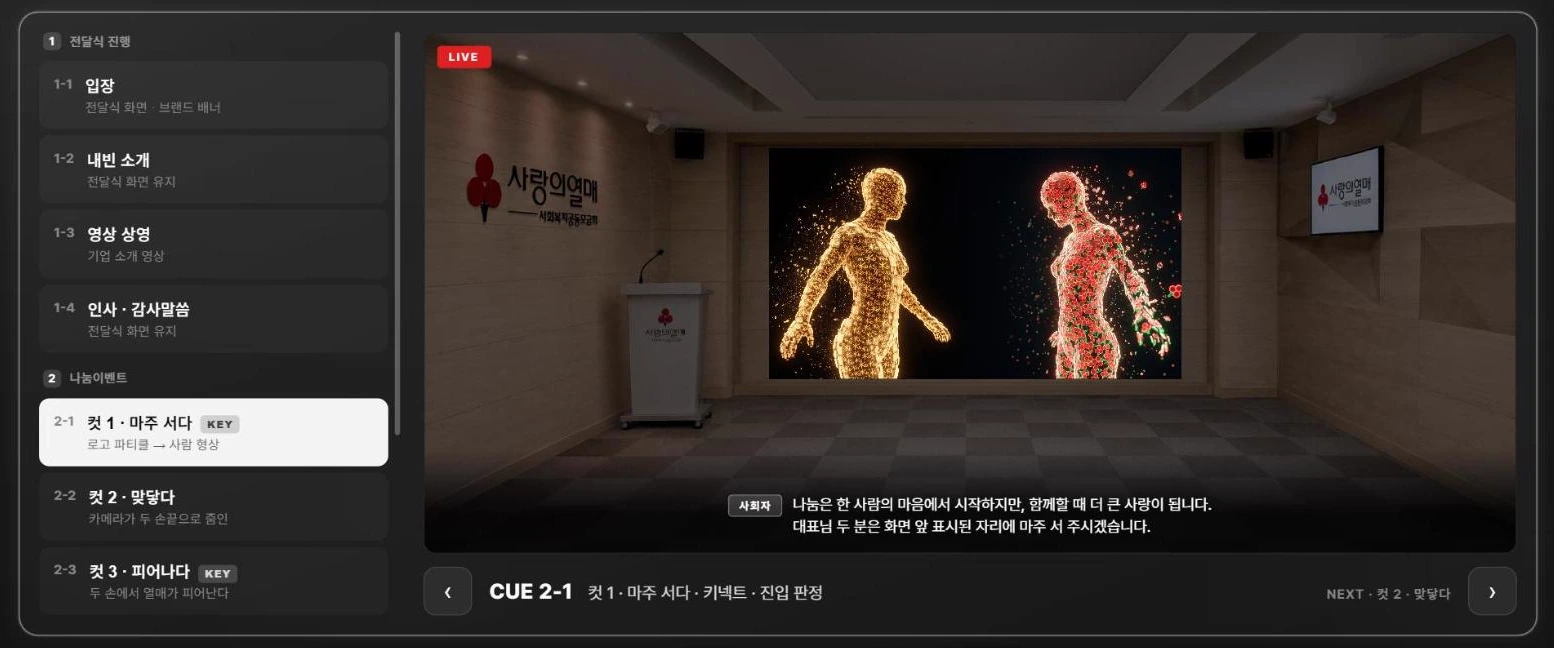
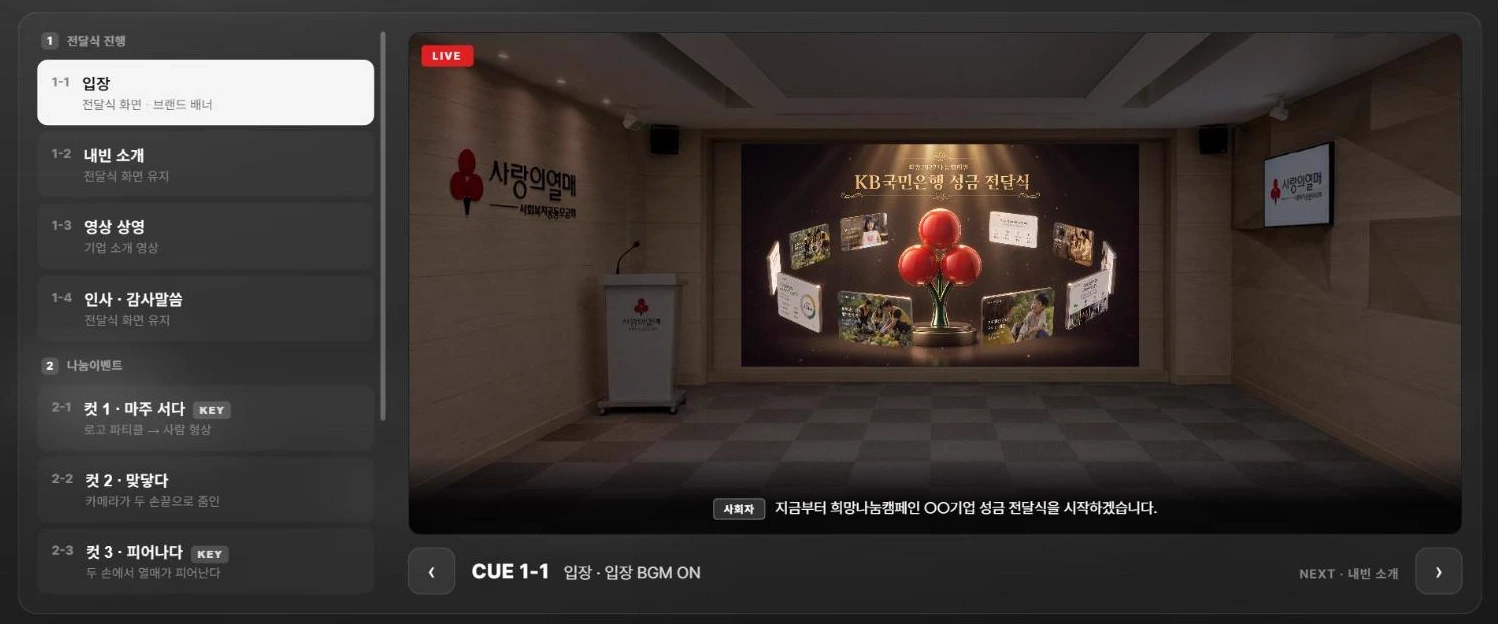
06p 콘솔 썸네일을 CUE 1-1 로 다시 잡는다
CUE 2-1 「컷 1 · 마주 서다」 상태로 캡처되어 있었다. 그 화면은 나눔이벤트 — 안건 1 의
그림이라, 안건 2 칸에 걸려 있으면 두 칸이 같은 것을 가리키는 것처럼 보인다.

CUE 1-1 「입장」으로 바꿨다. 큐 목록의 맨 처음이자 행사가 시작되는 지점이라
「이 시스템이 행사 전체를 순서대로 넘긴다」가 한눈에 읽힌다.

diff --git a/README.md b/README.md
@@ -159,6 +159,11 @@ YAGNI(개발 원칙)라서 그 장이 둘 중 하나로 읽혔다. 개수는 03p
 떼어 봐도 두 안건이 무엇이었는지 붙는다. 참고 이미지는 밝은 회색이라 그대로 두면 어두운
 콘솔 캡처와 한 쌍으로 읽히지 않아 `brightness(.42)` 로 눌렀다.
 
+콘솔 캡처는 **CUE 1-1 「입장」** 상태로 잡았다. 한때 CUE 2-1 「컷 1 · 마주 서다」로 떠
+있었는데, 그 화면은 나눔이벤트 — 즉 **안건 1** 의 그림이다. 안건 2 자리에 안건 1 의 화면이
+걸려 있으면 두 칸이 같은 것을 가리키는 것처럼 보인다. 1-1 은 큐 목록의 맨 처음이자
+행사가 시작되는 지점이라, 「이 시스템이 행사 전체를 순서대로 넘긴다」가 한눈에 읽힌다.
+
 ## 06p 아래 두 박스
 
 결정 항목이 아니라 목록 밖에 나란히 둔다 — 하나는 우리 의견, 하나는 절차 확인이다.
